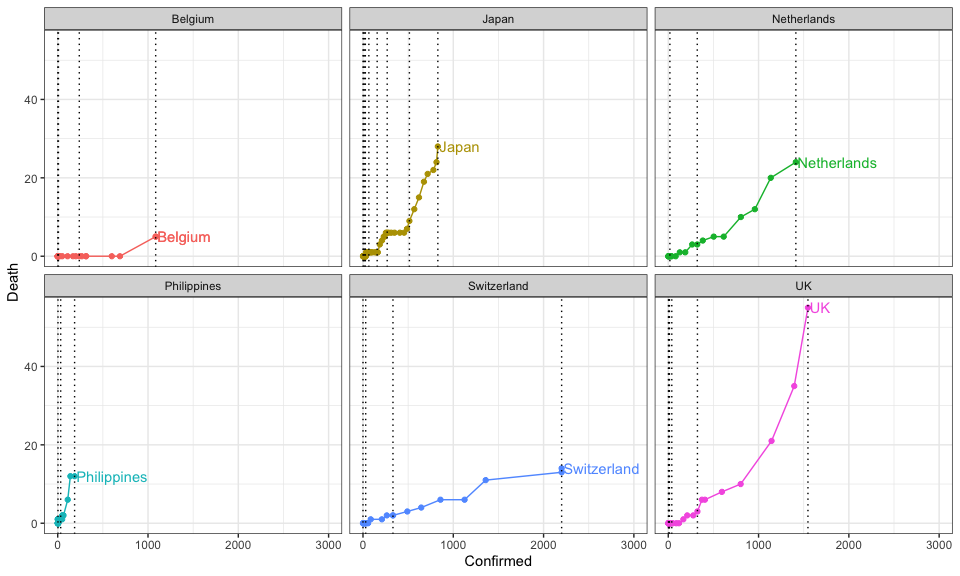
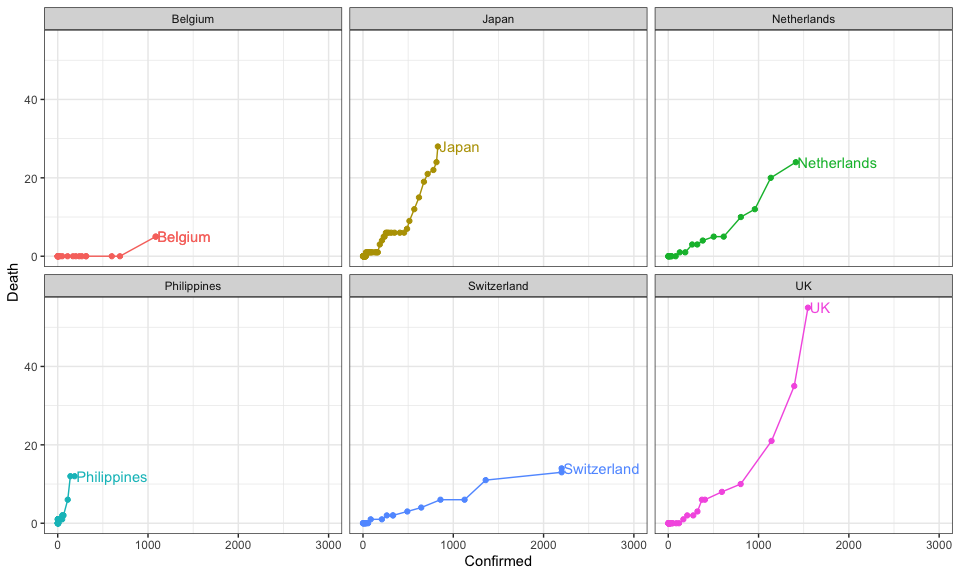
fix_dataformat

Changed region(s): [[0.375, 0.0625, 0.4062, 0.4688]]

diff --git a/Conf_Death.html b/Conf_Death.html
@@ -371,17 +371,9 @@ summary {
 
 <div id="link-who-coronavirus-disease-covid-2019-situation-reports" class="section level2">
 <h2>link: <a href="https://www.who.int/emergencies/diseases/novel-coronavirus-2019/situation-reports/">WHO Coronavirus disease (COVID-2019) situation reports</a></h2>
-<pre class="r"><code>dat &lt;-
-  &quot;data&quot; %&gt;% 
-  list.files(full.names = TRUE) %&gt;% 
-  str_subset(&quot;.csv&quot;) %&gt;% 
-  set_names(.) %&gt;% 
-  imap_dfr(~ read.csv(.x, stringsAsFactors = F) %&gt;% 
-             mutate(file = basename(.y))) %&gt;% 
-  filter(!is.na(Confirmed)) %&gt;% 
-  mutate(Area = str_remove(file, &quot;corona_conf_death_&quot;),
-         Area = str_remove(Area, &quot;.csv&quot;),
-         Area = if_else(Area == &quot;jp&quot;, &quot;Japan&quot;, Area))
+<pre class="r"><code>dat &lt;- 
+  &quot;data/dat_cofdeath.csv&quot; %&gt;% 
+  read.csv(stringsAsFactors = F)
 
 g &lt;-
   dat %&gt;% 

diff --git a/Conf_Death.md b/Conf_Death.md
@@ -14,18 +14,12 @@ output:
 
 
 
+
+
 ```r
-dat <-
-  "data" %>% 
-  list.files(full.names = TRUE) %>% 
-  str_subset(".csv") %>% 
-  set_names(.) %>% 
-  imap_dfr(~ read.csv(.x, stringsAsFactors = F) %>% 
-             mutate(file = basename(.y))) %>% 
-  filter(!is.na(Confirmed)) %>% 
-  mutate(Area = str_remove(file, "corona_conf_death_"),
-         Area = str_remove(Area, ".csv"),
-         Area = if_else(Area == "jp", "Japan", Area))
+dat <- 
+  "data/dat_cofdeath.csv" %>% 
+  read.csv(stringsAsFactors = F)
 
 g <-
   dat %>% 
@@ -45,7 +39,7 @@ g <-
 g
 ```
 
-![](Conf_Death_files/figure-html/unnamed-chunk-1-1.png)<!-- -->
+![](Conf_Death_files/figure-html/unnamed-chunk-2-1.png)<!-- -->
 
 
 ```r
@@ -53,7 +47,7 @@ g +
   facet_wrap(~Area)
 ```
 
-![](Conf_Death_files/figure-html/unnamed-chunk-2-1.png)<!-- -->
+![](Conf_Death_files/figure-html/unnamed-chunk-3-1.png)<!-- -->
 
 
 ```r
@@ -84,4 +78,4 @@ dat_week %>%
   facet_wrap(~Area)
 ```
 
-![](Conf_Death_files/figure-html/unnamed-chunk-3-1.png)<!-- -->
+![](Conf_Death_files/figure-html/unnamed-chunk-4-1.png)<!-- -->
